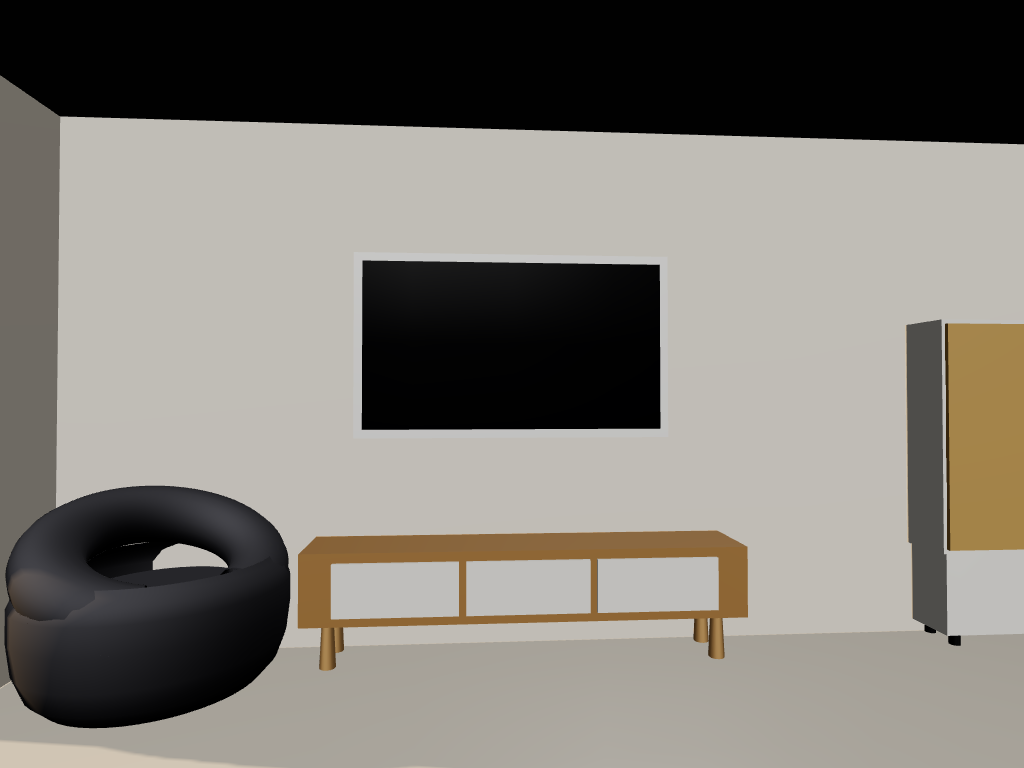
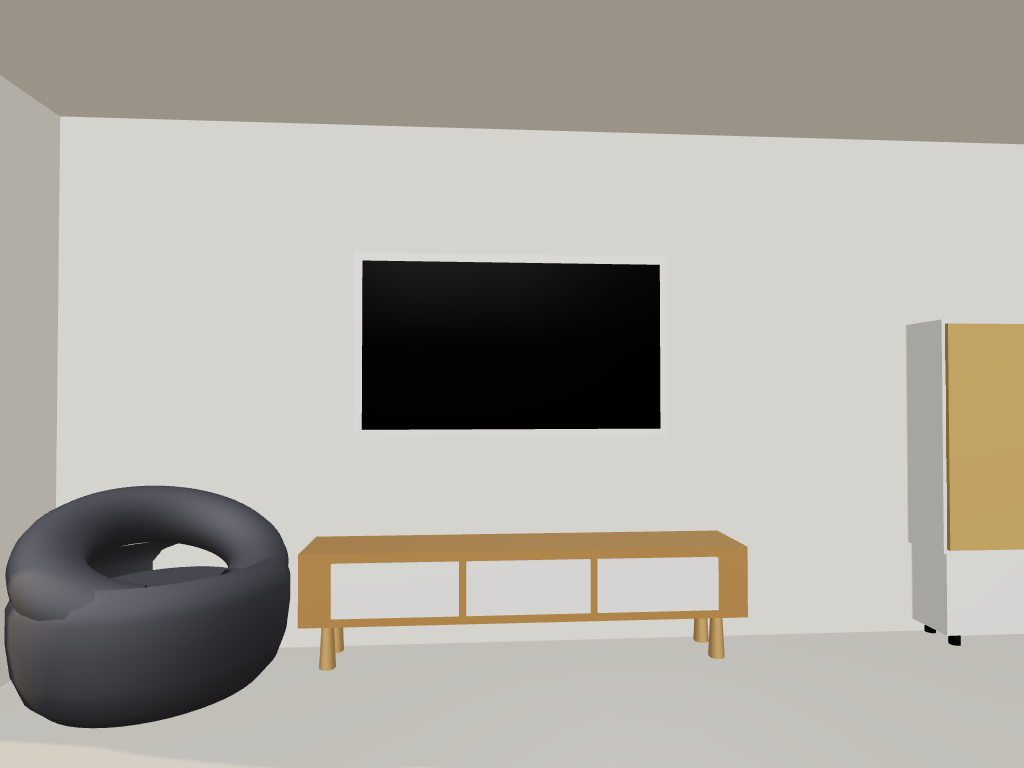
spike 2: D1 complete — ceiling bounce fill, exposure rebalance, C1 contact sheet
The WIP snapshot's black ceiling was missing floor-bounce light: the scene
was env-lit, and RoomEnvironment IBL contributes ~nothing to downward faces
(probed via headless pixel readback). Added a HemisphereLight as the GI
bounce fake, dropped exposure 1.15 -> 1.0 to keep the sun patches from
washing out, exposed window.__dbg for headless probes, and gave capture.mjs
a PLAYWRIGHT_DIR fallback so it runs on the local Mac too. out2/ now has
the checkpoint-1 contact sheet (scene2 vs spike-1 run-2 AI stills).

diff --git a/spike/out2/contact-sheet.html b/spike/out2/contact-sheet.html
@@ -1,0 +1,50 @@
+<!doctype html>
+<html>
+<head>
+<meta charset="utf-8" />
+<title>PoC 2 — checkpoint 1 contact sheet (rungs 0–1)</title>
+</head>
+<body style="background:#111;color:#eee;font-family:sans-serif;margin:0;padding:24px;">
+  <h1 style="font-size:20px;">PoC 2 checkpoint 1 — real-time PBR pass (rungs 0–1)</h1>
+  <p style="font-size:13px;color:#999;max-width:820px;">
+    Judge against poc2-plan.md &sect;2 <b>Tier 1</b>: can you decide layout / proportion /
+    color questions from these renders? Materials should read as the right category and
+    color (oak as oak, charcoal pod as dark fabric); lighting shouldn't lie about
+    brightness or mood. Texture-level fidelity (wood grain, weave, rug pile) is rung 2 —
+    not in these images yet. Bottom row: spike-1 run-2 AI stills of the same views, for
+    reference on what the rejected path looked like.
+  </p>
+
+  <h2 style="font-size:16px;color:#aaa;">Couch view</h2>
+  <div style="display:flex;flex-wrap:wrap;">
+    <div style="margin:4px;">
+      <div style="font-size:12px;color:#999;margin-bottom:4px;">scene2 real-time PBR (this checkpoint)</div>
+      <a href="scene2-couch.png" target="_blank"><img src="scene2-couch.png" style="width:480px;border:1px solid #444;" /></a>
+    </div>
+    <div style="margin:4px;">
+      <div style="font-size:12px;color:#999;margin-bottom:4px;">spike-1 run-2 AI still (rejected path, for reference)</div>
+      <a href="../out/run-20260717-112149-1.png" target="_blank"><img src="../out/run-20260717-112149-1.png" style="width:480px;border:1px solid #444;" /></a>
+    </div>
+  </div>
+
+  <h2 style="font-size:16px;color:#aaa;">Reverse view (from entry/kitchen passage)</h2>
+  <div style="display:flex;flex-wrap:wrap;">
+    <div style="margin:4px;">
+      <div style="font-size:12px;color:#999;margin-bottom:4px;">scene2 real-time PBR (this checkpoint)</div>
+      <a href="scene2-reverse.png" target="_blank"><img src="scene2-reverse.png" style="width:480px;border:1px solid #444;" /></a>
+    </div>
+    <div style="margin:4px;">
+      <div style="font-size:12px;color:#999;margin-bottom:4px;">spike-1 run-2 AI still (rejected path, for reference)</div>
+      <a href="../out/run-20260717-112228-1.png" target="_blank"><img src="../out/run-20260717-112228-1.png" style="width:480px;border:1px solid #444;" /></a>
+    </div>
+  </div>
+
+  <h2 style="font-size:16px;color:#aaa;">Known gaps at this rung (deliberate, not bugs)</h2>
+  <ul style="font-size:13px;color:#999;max-width:820px;">
+    <li>Flat colors instead of textures (wood grain, bamboo weave, rug pile, fabric) — rung 2.</li>
+    <li>No contact shadows / ambient occlusion, so furniture can look slightly floaty — rung 3 (SSAO).</li>
+    <li>No decor props (books, cushions, speakers), so the room reads empty — rung 2.</li>
+    <li>Bookshelf, water cooler, Billy interiors are still simple masses per the "outline and voids" rule.</li>
+  </ul>
+</body>
+</html>

diff --git a/spike/scene2.html b/spike/scene2.html
@@ -134,7 +134,7 @@ renderer.setPixelRatio(1); // keep exports at exactly 1024x768 px, no DPR scalin
 renderer.setSize(CANVAS_W, CANVAS_H, false);
 renderer.outputColorSpace = THREE.SRGBColorSpace;
 renderer.toneMapping = THREE.ACESFilmicToneMapping;
-renderer.toneMappingExposure = 1.15;
+renderer.toneMappingExposure = 1.0;
 renderer.shadowMap.enabled = true;
 renderer.shadowMap.type = THREE.PCFSoftShadowMap;
 wrap.appendChild(renderer.domElement);
@@ -236,6 +236,12 @@ sun.shadow.camera.bottom = -500;
 sun.shadow.bias = -0.0002;
 sun.shadow.normalBias = 2.5; // world units are cm
 scene.add(sun, sun.target);
+
+// Floor-bounce fill: rasterization has no GI, so the one light path that
+// lights a ceiling — sun hits floor, floor bounces up — must be faked.
+// Ground color = floor tile tint, sky kept dim so it doesn't fight the IBL.
+const bounce = new THREE.HemisphereLight(0xcfd8e0, 0xece6da, 1.05);
+scene.add(bounce);
 
 // Backdrop "exterior" plane west of the glazing so windows read bright/warm,
 // and so the couch view isn't looking into empty sky color.
@@ -759,6 +765,9 @@ function animate() {
   if (++framesRendered === 3) window.sceneReady = true; // for headless capture
 }
 animate();
+
+// debugging hooks for headless capture sessions
+window.__dbg = { scene, renderer, camera, MAT, sun, THREE };
 </script>
 </body>
 </html>